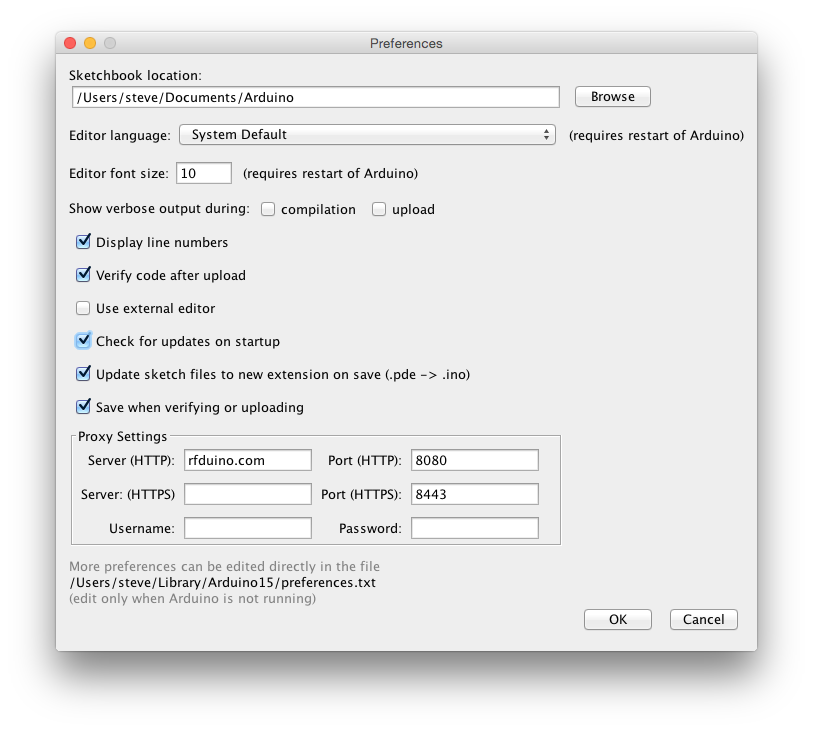
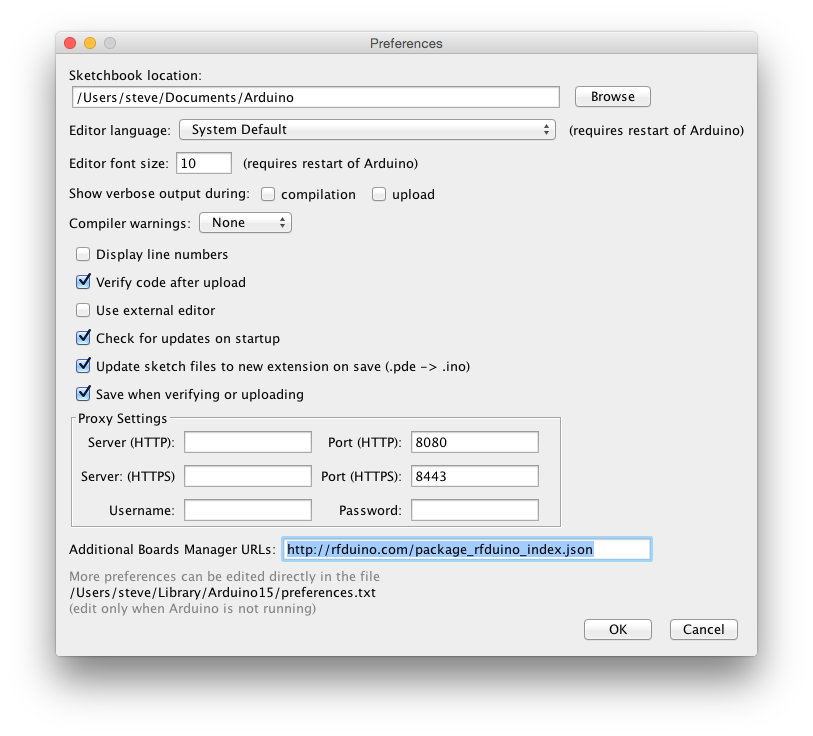
arduino 1.6.4 support

diff --git a/README.md b/README.md
@@ -10,15 +10,19 @@
 
 * Install the [FTDI drivers](http://www.ftdichip.com/Drivers/VCP.htm).
 
-* Download [Arduino 1.6.3](http://arduino.cc/en/Main/Software) on newer.
+* Download [Arduino 1.6.4](http://arduino.cc/en/Main/Software) or newer.
   * _Mac OS X_: Requires Java 6 to be installed. Available [here](https://support.apple.com/kb/DL1572?locale=en_US).
 
 * Open Arduino
-  * edit preferences, and add rfduino.com as the Server (HTTP) under Proxy Settings and save.
+  * Arduino may not start properly if another version has been previously installed and the Preferences are incompatible.  You can reset the Preferences by deleting the following directory:
+    * _Windows_: %appdata%/Arduino15 (open File Explorer, enter %appdata% into the Address Bar and press Enter)
+    * _Mac OS X_: ~/Library/Arduino15 (open Finder, and ```Go->Go to Folder```)
+    * _Linux_: ~/.arduino15
+  * Edit Preferences, and add http://rfduino.com/package_rfduino_index.json to Additional Board Manager URLs and save.
       ![preferences](preferences.png)
-  * Open the Boards Manager under Tools->Board menu.
+  * Open the Boards Manager under ```Tools->Board``` menu.
   * Select the RFduino package at the end of the list, and click Install to install it.
-  * Your new board will now show up in the Tools->Board menu.
+  * Your new board will now show up in the ```Tools->Board``` menu.
 
 Select the board and port, and you're ready to go!
 
@@ -26,6 +30,7 @@ Select the board and port, and you're ready to go!
 
 ```
 // FTDI drivers are not needed (they are built into the kernel)
+
 wget http://downloads.arduino.cc/arduino-1.6.3-linux64.tar.xz
 tar -xf arduino-1.6.3-linux64.tar.xz
 
@@ -41,11 +46,11 @@ sudo usermod -aG dialout <username>
 
 * Attach the USB shield
 
-* Select RFduino from the ```Tools/Board``` menu
+* Select RFduino from the ```Tools->Board``` menu
 
-* Select the port from the ```Tools/Port``` menu
+* Select the port from the ```Tools->Port``` menu
 
-* Select an example from the ```Files/Examples/RFduinoNonBLE``` or ```Files/Examples/RFduinoBLE``` directory
+* Select an example from the ```File->Examples->RFduinoNonBLE``` or ```File->Examples-?RFduinoBLE``` directory
 
 * Select ```Upload``` to compile, upload and execute the sketch
 
